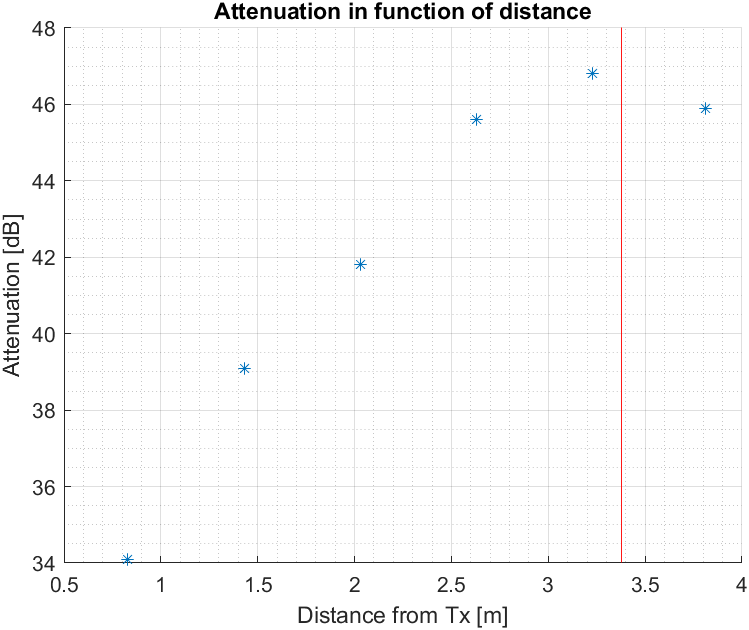
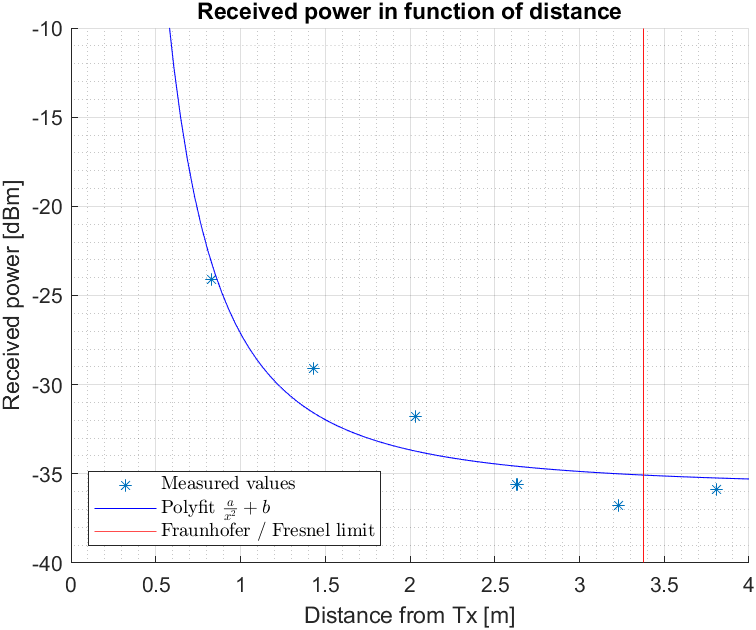
modified plots and naming for Propagation models

diff --git a/Propagation_Models.m b/Propagation_Models.m
@@ -1,7 +1,6 @@
 clear all, close all, clc
 %% Free space link
-    %% power for different distances
-close all
+    %% Power for different distances
 
 addpath('Data','Functions','Images')
 load('./Data/Center_Frequency.mat')
@@ -12,115 +11,99 @@ lambda_B = 3*10^8/freq_center; % [m]
 
 d = [3.81	 3.23    2.63    2.03    1.43    0.83]; % [m]
 P = [-35.9  -36.8   -35.6   -31.8   -29.1   -24.1]; % [dBm]
-attenuation = 10 - P; % transmit 10 dBm
 
-
-figure(); hold on
-plot(d, attenuation,'*')
-xline([R_Fresnel_B R_Fraunhofer_B],'r')
-xlabel('Distance from Tx [m]'); ylabel('Attenuation [dB]')
-grid on, grid minor
-title('Attenuation in function of distance')
-
-exportgraphics(gcf,'./Images/FreeSpace_Distance.png')
-
-x = d.';
-y = P.';
-n = -2;
-A = [];
-for i = n:-n:0
-  A = [A x.^i];
-end
-coeff = A\y;
-
-p1 = @(d) coeff(1).*d.^(-2) + coeff(2);
-d1 = 0:0.01:4;
+opts = optimset('Display','off');
+fun = @(a,d) a(1)./d.^2 + a(2);
+a0 = [10 -10];
+coeff = lsqcurvefit(fun,a0,d,P,[],[], opts);
+d1 = linspace(floor(min(d)),ceil(max(d)));
+fit = fun(coeff,d1);
 
 figure(); hold on
-plot(d, P,'*')
-plot(d1,p1(d1),'b')
+plot(d, P, '*')
+plot(d1, fit, 'b')
 xline([R_Fresnel_B R_Fraunhofer_B],'r')
 xlabel('Distance from Tx [m]'); ylabel('Received power [dBm]')
 grid on, grid minor
 axis([0 4 -40 -10])
 title('Received power in function of distance')
-legend('Measured values', 'Polyfit $\frac{a}{x^2} + b $','Fraunhofer / Fresnel limit','Location','SouthWest','Interpreter','latex')
+legend('Measured values', 'Polyfit $\frac{a}{x^2} + b $','Fraunhofer / Fresnel limit',...
+       'Location','SouthWest','Interpreter','Latex')
 
-exportgraphics(gcf,'./Images/ReceivedPower_Distance.png')
+exportgraphics(gcf,'./Images/FreeSpace_Distance.png')
 
     %% Polarization mismatch
-close all
     
 theta = 0:15:90; % [°]
 P = [-36.2  -37.2   -39.5   -46.7   -54.4   -62.4   -52.3]; % [dBm]
-%attenuation = 10 - P; % transmit 10 dBm
 
 figure();
-polarplot( deg2rad(theta) ,P,'*--')
-title('Polarization mismatch')
+polarplot(deg2rad(theta), P, '*--')
 thetalim([theta(1) theta(end)]);
+thetaticks(theta);
 rlim([-65 -35])
+title('Polarization mismatch')
 
 exportgraphics(gcf,'./Images/FreeSpace_Polarization.png')
 
     %% Relative angle
-close all
 
 theta = -90:15:90; % [°]
 P = [-45.1  -45.0   -55.8   -51.7   -44.3   -40.9   -36.8 ...
      -35.1  -36.5   -38.0   -43.9   -54.8   -46.2]; % [dBm]
-%attenuation = 10 - P; % transmit 10 dBm
 
 figure();
-polarplot( deg2rad(theta) ,P,'*--')
-title('Relative angle')
+polarplot(deg2rad(theta), P, '*--')
 thetalim([theta(1) theta(end)]);
-rlim([-59 -35])
+thetaticks(theta);
+rlim([-65 -35])
+title('Relative angle')
 
-pax = gca;
-pax.ThetaDir = 'counterclockwise';
-pax.ThetaZeroLocation = 'top';
+ax = gca;
+ax.ThetaDir = 'counterclockwise';
+ax.ThetaZeroLocation = 'top';
+ax.RAxisLocation = 0;
 
 exportgraphics(gcf,'./Images/FreeSpace_Relative_Angle.png')
 
 %% Two-ray model
 clc, close all
-    %% position of hole
-close all
+    %% Position of hole
 
 P = [-37.9  -37.7   -37.8   -38.1   -37.9   -37.6];
-%attenuation = 10 - P; % transmit 10 dBm
 
 figure();
 plot(P,'*--')
 grid on, grid minor
+xticks(1:length(P)); xticklabels({'@Tx','@Tx+1','@Tx+2','@Tx+3','@Tx+4','@Tx+5'})
+xlim([0.5 length(P)+0.5]); ylim([-40 -35])
 xlabel('Position of hole')
 ylabel('Received power [dBm]')
 title('Influence of hole position')
+
 exportgraphics(gcf,'./Images/TwoRay_Position.png')
 
-P_sort = sort(P);
-rel_diff = abs((P_sort(1) - P_sort(end)))/abs(P_sort(1));
+rel_diff = abs( max(P) - min(P) ) / abs( max(P) );
 fprintf('The relative difference between the highest and lowest received power is %0.2f%%. \n', rel_diff*100)
 
-
-    %% number of holes
+    %% Number of holes
 
 n_holes = 0:10;
 P = [-37.9	-37.6   -37.8   -38.1   -38.3   -38.7 ...
      -38.2  -38.6   -38.6   -38.4   -38.3];
-%attenuation = 10 - P; % transmit 10 dBm
 
 figure();
 plot(n_holes, P, '*--')
 grid on, grid minor
+xticks(n_holes); xticklabels({'0','1','2','3','4','5','5+1','5+2','5+3','5+4','10'})
+xlim([-0.5 length(P)-0.5]); ylim([-40 -35])
 xlabel('Number of holes')
 ylabel('Received power [dBm]')
 title('Influence of number of holes')
+
 exportgraphics(gcf,'./Images/TwoRay_NumberHoles.png')
 
-P_sort = sort(P);
-rel_diff = abs((P_sort(1) - P_sort(end)))/abs(P_sort(1));
+rel_diff = abs( max(P) - min(P) ) / abs( max(P) );
 fprintf('The relative difference between the highest and lowest received power is %0.2f%%. \n', rel_diff*100)
 
 %% Small-scale fading
@@ -131,8 +114,17 @@ data = readmatrix('AE_DRONE.csv','Delimiter',';');
 received_power = max(data,[],2);
 attenuation = 10 - received_power; % 10 dBm start value
 
+figure()
+plot(received_power)
+grid on, grid minor
+xlabel('Time [samples]')
+ylabel('Power [dBm]')
+title('Received Power')
+
+exportgraphics(gcf,'./Images/SmallScale_Received_Power.png')
+
     %% Fit a Rician distribution
-close all
+    
 dist = fitdist(attenuation,'Rician');
 
 K = 10*log10( dist.s^2/(2*dist.sigma^2) );
@@ -143,15 +135,11 @@ ci(2) = dist.s + 2*dist.sigma;
 
 figure(); hold on
 fplot(pdf, [0 2*dist.s])
-% xline(ci,'r')
+area(linspace(ci(1),ci(2)), pdf(linspace(ci(1),ci(2))), 'LineStyle','none')
 ylim( [0 0.075] )
 xlabel('Attenuation [dB]'); title({'PDF of the Rician Distribution',sprintf('(K = %0.3f)',K)})
 
-exportgraphics(gcf,'./Images/Rician_Distribution.png')
+exportgraphics(gcf,'./Images/SmallScale_Rician_Distribution.png')
 
-figure(), hold on
-plot(received_power)
-title('Received Power')
-xlabel('Time [samples]'), ylabel('Power [dBm]')
-grid on, grid minor
-exportgraphics(gcf,'./Images/DataSmallScale.png')
+fprintf('Confidence interval between %0.2f dB and %0.2f dB : %0.2f%% \n',...
+        ci(1), ci(2), integral(pdf,ci(1),ci(2))*100 )
